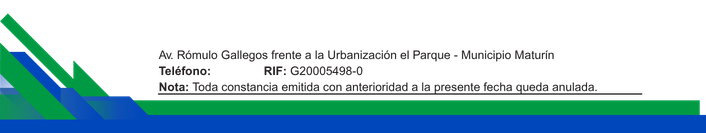
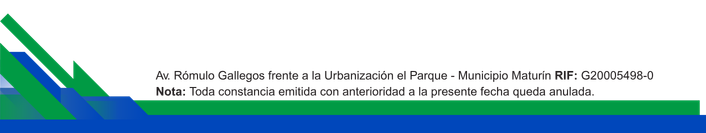
5-06-2026 OFICINA

Changed region(s): [[0.2181, 0.4812, 0.9348, 0.7218], [0.2181, 0.3609, 0.8102, 0.4812]]

diff --git a/app/Http/Controllers/ReciboController.php b/app/Http/Controllers/ReciboController.php
@@ -52,7 +52,7 @@ class ReciboController extends Controller
     public function Recibo(Request $request)
     {
         $request->validate([
-            'cedula' => 'required',
+            //'cedula' => 'required',
             'mes' => 'required',
             'anio' => 'required'
         ]);
@@ -71,6 +71,7 @@ class ReciboController extends Controller
         $cedula = $request->cedula;
         $mes_selc = $request->mes;
         $anio_selc = $request->anio;
+        
         $user = $this->User();
         $sedeEmp=$this->Sede();
         $IdEmp = $user['personal_id'];
@@ -98,37 +99,27 @@ class ReciboController extends Controller
 
         $autoridad = $this->Autoridad();
         //VALIDANDO Y PROCESANDO
-        $personal = Personal::where('cedula','=',$cedula)->first(); 
-        if ($personal){
-            if ($privilegio == 3)  {
-                //continua
-                return $IdEmp;
-                if($IdEmp != $personal->id) {
-                    return Redirect::back()->with('error','Sus cédula no correspoden al usuario de inicio de sesión; es decir, NO puede emitir documentación de otro Personal,  "verifique" e ¡intente de nuevo!');
-                }
-            }
-            if($sedeEmp['id'] == $personal->sede_id){
-                $arraytypepers = $personal->typepers()->get();
-                $cargo = $personal->cargo;
-                $arrayspacework = $personal->spacework()->get();
-                foreach ($arraytypepers as $type) {
-                    $typepers=$type['name'];
-                    $typepersid = $type['id'];
-                }
-                // foreach ($arrayspacework as $space) {
-                //         $spacework=$space['name'];
-                // }
-            }else{ //if (verifica sedes)
-                return Redirect::back()->with('error','El empleado no se corresponde a la sede de inicio de sesión. Cada SEDE O INSTITUTO debe generar la constancia de trabajo de sus empleados, "verifique" e ¡intente de nuevo!');
-            }
-                //DEDICATION
-     
-            $dedicacion = $personal->dedication;
 
-        }//if personal
-        else{
-            return Redirect::back()->with('error','Disculpe!, esta persona no se encuentra registrado, consulte al administrador');
+
+        if ($privilegio == 3){
+            $personal = Personal::where('id','=',$IdEmp)->first();  
+        }else{
+           $personal = Personal::where('cedula','=',$request->cedula)->first(); 
+           if (empty($personal)){
+                return Redirect::back()->with('error','El empleado no existe en nuestra DB, "verifique" e ¡intente de nuevo!');
+           }
+          
+            
+          
         }
+        $arraytypepers = $personal->typepers()->get();
+        $cargo = $personal->cargo;
+        $arrayspacework = $personal->spacework()->get();
+        foreach ($arraytypepers as $type) {
+            $typepers=$type['name'];
+            $typepersid = $type['id'];
+        }
+        $dedicacion = $personal->dedication;
         //SOBREVIVIENTE
         if ($request->has('checkSobrev')) {
             $beneficiarios = $personal->beneficiarios()->get(); 
@@ -141,13 +132,13 @@ class ReciboController extends Controller
             foreach($nominas as $nom){              
                 if(($nom['mes'] == $mes_selc) && ($nom['anio'] == $anio_selc)){
                    $nominasAnioMes = $nom; //nominas de año y mes
-                  
+                   $arraynomina = $nominasAnioMes;
+                   $idnomina = $arraynomina->id;
                 }else{
                     return Redirect::back()->with('error','No ha sido cargada al sistema la nomina correspondien al mes/año seleccionado, consulte al administrador');
                 }
             } //END FOREACH
-            $arraynomina = $nominasAnioMes;
-            $idnomina = $arraynomina->id;
+            
 
             DB::table('recibos_g_s')->insert([
                     'codigo' => $cod,

diff --git a/resources/views/Solicitar/Download/PDF-ReciboPago.blade.php b/resources/views/Solicitar/Download/PDF-ReciboPago.blade.php
@@ -110,7 +110,7 @@
                 <?php $contA=0?>
                 <table style="width: 100%" class="evitar-salto" ><?php $Ttasign=0; ?>
                     <thead>
-                    <tr  align="center" style="background: #7ffa7b; border: 0.5px solid  red;  ">
+                    <tr  align="center" style="background:  #009a44; border: 0.5px solid  red;  ">
                         <th class="">Asignacion(es)</th>
                         <th class="">Monto</th>
                     </tr>
@@ -267,7 +267,7 @@
         <div>
             <table style="width: 100%" class="evitar-salto"> 
                 <thead>
-                    <tr align="center" style="background:#d8d543; border: 0.5px solid  red;  ">
+                    <tr align="center" style="background:#e5e5e5; border: 0.5px solid  red;  ">
                         <th>Deducción(es)</th>
                         <th>Monto</th>
                     </tr>
@@ -399,17 +399,18 @@
     </div>
   
     <!-- QUINCENAS  -->
-    <div align="center" style="background:    #63b4f3; margin-top:1%; margin-left: 10%; margin-right: 10%; width: 70%;">
-        <DIV>Neto: {{$arraynomina['salario_neto']}}</DIV>
+    <div align="center" style=" margin-top:1%; margin-left: 10%; margin-right: 10%; width: 70%; font-weight: bold;">
+        <DIV> <b>Neto: {{$arraynomina['salario_neto']}}</b></DIV>
             <label style="padding-right: 10%">Primera quincena: {{$arraynomina['primera_qna']}}</label>
             <label>Segunda quincena: {{$arraynomina['segunda_qna']}}</label>
     </div>
         <!--BONIFICACIONES--> 
         @if ($arraynomina['beca'] || $arraynomina['bono_nocturno'])
+        <br>
             <div align="center" class="bonif">OTRAS BONIFICACIONES DEL MES</div>
                 <table class="evitar-salto">
                     <thead>
-                        <tr style=" text-align: right; background:    #8ee6f1; border: 0.5px solid  red;  ">
+                        <tr style=" text-align: right; background:    #0047bb; border: 0.5px solid  red; ">
                             <th>Descripcion</th>
                             <th>Monto</th>
                         </tr>

diff --git a/resources/views/home.blade.php b/resources/views/home.blade.php
@@ -7,11 +7,10 @@
 
         <x-message/>
         <x-message-error/>
-        <div class="justify-content-center flex-container" >
-          <!-- MODAL CONSTANCIA DE TRABAJO-->
-          <img src="{{asset('images/Modals/constancia.png')}}"  title="Solicitar constancia de trabajo" data-bs-toggle="modal" data-bs-target="#ConstModal"  class="img-modal" >
-          <!-- MODAL RECIBO DE PAGO -->
-          <img src="{{asset('images/Modals/recibo.png')}}" title="Solicitar Recibo de pago" data-bs-toggle="modal" data-bs-target="#RecPagModal"style="margin-left: 10%"  class="img-modal">
+       <div class="div-center flex-container" style="display: flex; justify-content: center; align-items: center; gap: 40px;">
+            <img src="{{asset('images/Modals/constancia.png')}}" title="Solicitar constancia de trabajo" data-bs-toggle="modal" data-bs-target="#ConstModal" class="img-modal" style="width: 320px; height: auto; cursor: pointer;">
+            
+            <img src="{{asset('images/Modals/recibo.png')}}" title="Solicitar Recibo de pago" data-bs-toggle="modal" data-bs-target="#RecPagModal" class="img-modal" style="width: 320px; height: auto; cursor: pointer;">
         </div>
 
         

diff --git a/resources/views/Solicitar/Download/PDF-ConstTrab.blade.php b/resources/views/Solicitar/Download/PDF-ConstTrab.blade.php
@@ -138,12 +138,12 @@ th,td{
 			@if ($typepersid == 1) DOCENTE {{$condicion->name}}</b>
 			@else 
 					{{$typepers}} {{$condicion->name}} </b> de esta Universidad. 
-					Desempeñando el cargo de <b class="text-bold text-uppercase">{{$cargo}}.</b>
+					Desempeñando el cargo de <b class="text-bold text-uppercase">{{$cargo}}</b>
 			@endif
 			
 			
         @if ($personal->jerarquia)
-        	. Con funciones de <b class="text-bold text-uppercase">{{$personal->jerarquia}}.</b>
+        	. Con funciones de <b class="text-bold text-uppercase">{{$personal->jerarquia}}</b>
 				@endif
 				<!-- INGESO Y EGRESO -->			
 				  . Ingresando en esta institucion en fecha <b>{{$personal->fec_ing}}</b>	

diff --git a/resources/views/navigation-menu.blade.php b/resources/views/navigation-menu.blade.php
@@ -11,7 +11,7 @@
                     </x-nav-link>
                 </div>
                 <!-- <img src="{{asset('images/SIGDOL/Sistema de gestión.png')}}" > -->
-                <label class="display-6 text-center" style="color: #0047bb; padding-left: 5%">{{ __('Portal web para general documentación laboral') }}</label>
+                <label class="display-6 text-center" style="color: #0047bb; padding-left: 5%">{{ __('Portal web para generar documentación laboral') }}</label>
 
             @endif 
 
